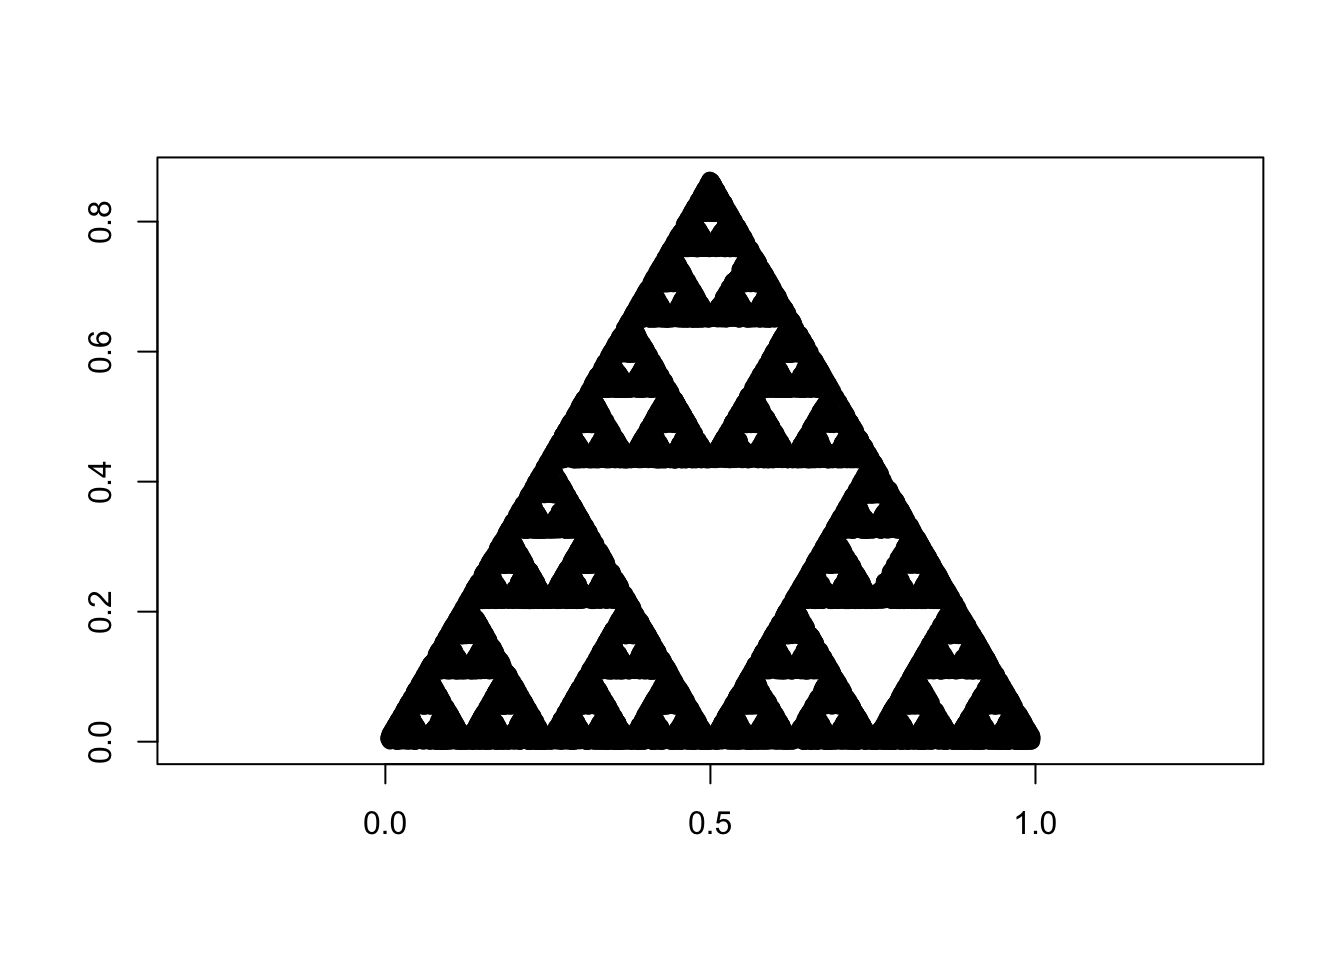
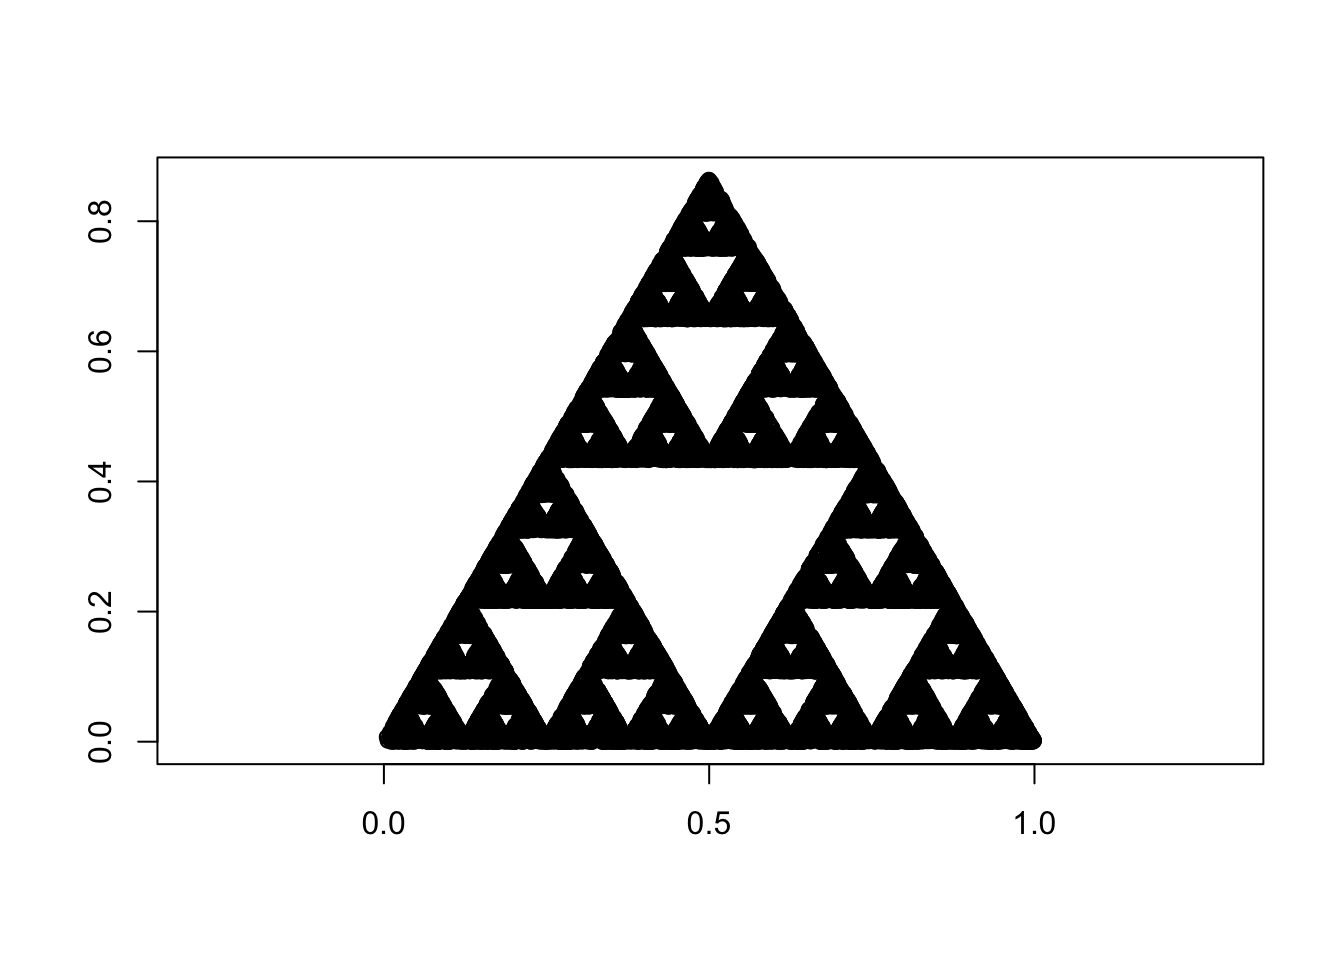
Built site for sameSVD: 0.2.0@4b23003

diff --git a/articles/points.html b/articles/points.html
@@ -180,10 +180,10 @@
 <span class="co">#&gt; Simple feature collection with 1 feature and 0 fields</span>
 <span class="co">#&gt; geometry type:  MULTIPOINT</span>
 <span class="co">#&gt; dimension:      XY</span>
-<span class="co">#&gt; bbox:           xmin: 0.004510865 ymin: 0 xmax: 0.9954289 ymax: 0.8641266</span>
+<span class="co">#&gt; bbox:           xmin: 0.004702321 ymin: 0 xmax: 0.9990284 ymax: 0.8635172</span>
 <span class="co">#&gt; CRS:            EPSG:3857</span>
 <span class="co">#&gt;   st_sfc.st_multipoint.sierpinski_pts...crs...3857.</span>
-<span class="co">#&gt; 1                    MULTIPOINT ((0.5 0), (0.75 ...</span>
+<span class="co">#&gt; 1                    MULTIPOINT ((0.5 0), (0.5 0...</span>
 <span class="fu"><a href="https://rdrr.io/pkg/sf/man/plot.html">plot</a></span>(<span class="no">sierpinski_sf</span>, <span class="kw">axes</span> <span class="kw">=</span> <span class="fl">TRUE</span>)</pre></body></html></div>
 <p><img src="points_files/figure-html/unnamed-chunk-8-1.png" width="672"></p>
 <p>The Box-Counting Dimension of this figure is calculated using <code><a href="../reference/bcd.html">bcd()</a></code> as illustrated below.</p>
@@ -194,7 +194,7 @@
 <p><img src="points_files/figure-html/unnamed-chunk-9-1.png" width="672"></p>
 <pre><code>#&gt; Performing simple linear regression to determine Box-Counting dimension...
 #&gt; Plotting best-fit line...
-#&gt; [1] 1.601929</code></pre>
+#&gt; [1] 1.595029</code></pre>
 <p>The regression gives a Box-Counting dimension of ~1.59 which is very close to the theoretical value.</p>
 </div>
 </div>

diff --git a/index.html b/index.html
@@ -91,7 +91,7 @@
 <a href="#description" class="anchor"></a>Description</h2>
 <p><strong>sameSVD</strong> stands for <strong>S</strong>imilarity and <strong>A</strong>ffinity <strong>Me</strong>asures for <strong>S</strong>patial <strong>V</strong>ector <strong>D</strong>ata</p>
 <blockquote>
-<p>This package is still under development and many of the objectives of this package are yet to be implemented.</p>
+<p>This package is still under development and many of the objectives of this package are yet to be implemented or conceptualized.</p>
 </blockquote>
 <p>The objective of this package is to establish (if required) and implement measures of (self-)similarity and (self-)affinity for spatial vector data represented in accordance with the <a href="https://en.wikipedia.org/wiki/Simple_Features">Simple Features</a> (officially <em>Simple Features Access</em>) specifications, as endorsed by <a href="https://www.ogc.org/projects/groups/sfswg">OGC</a> and <a href="https://www.iso.org/standard/40114.html">ISO</a>.</p>
 <div id="present-status" class="section level3">
